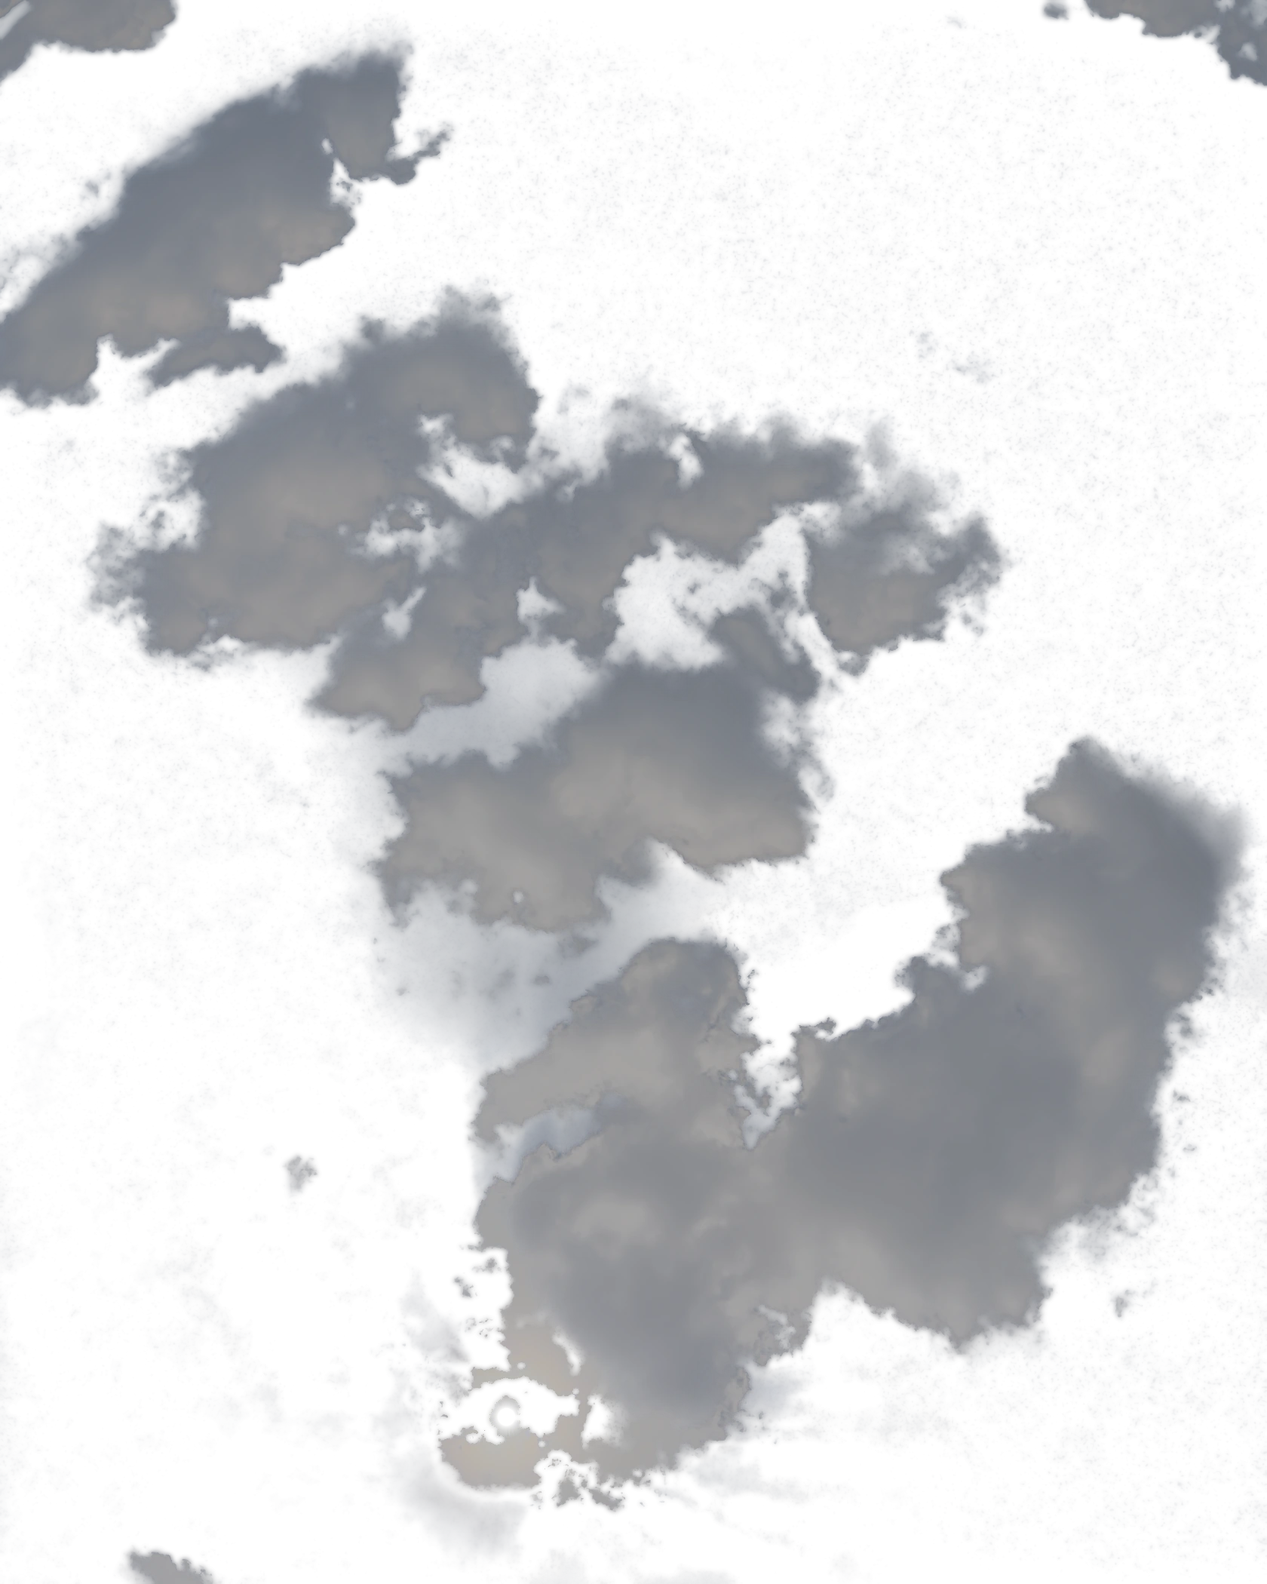
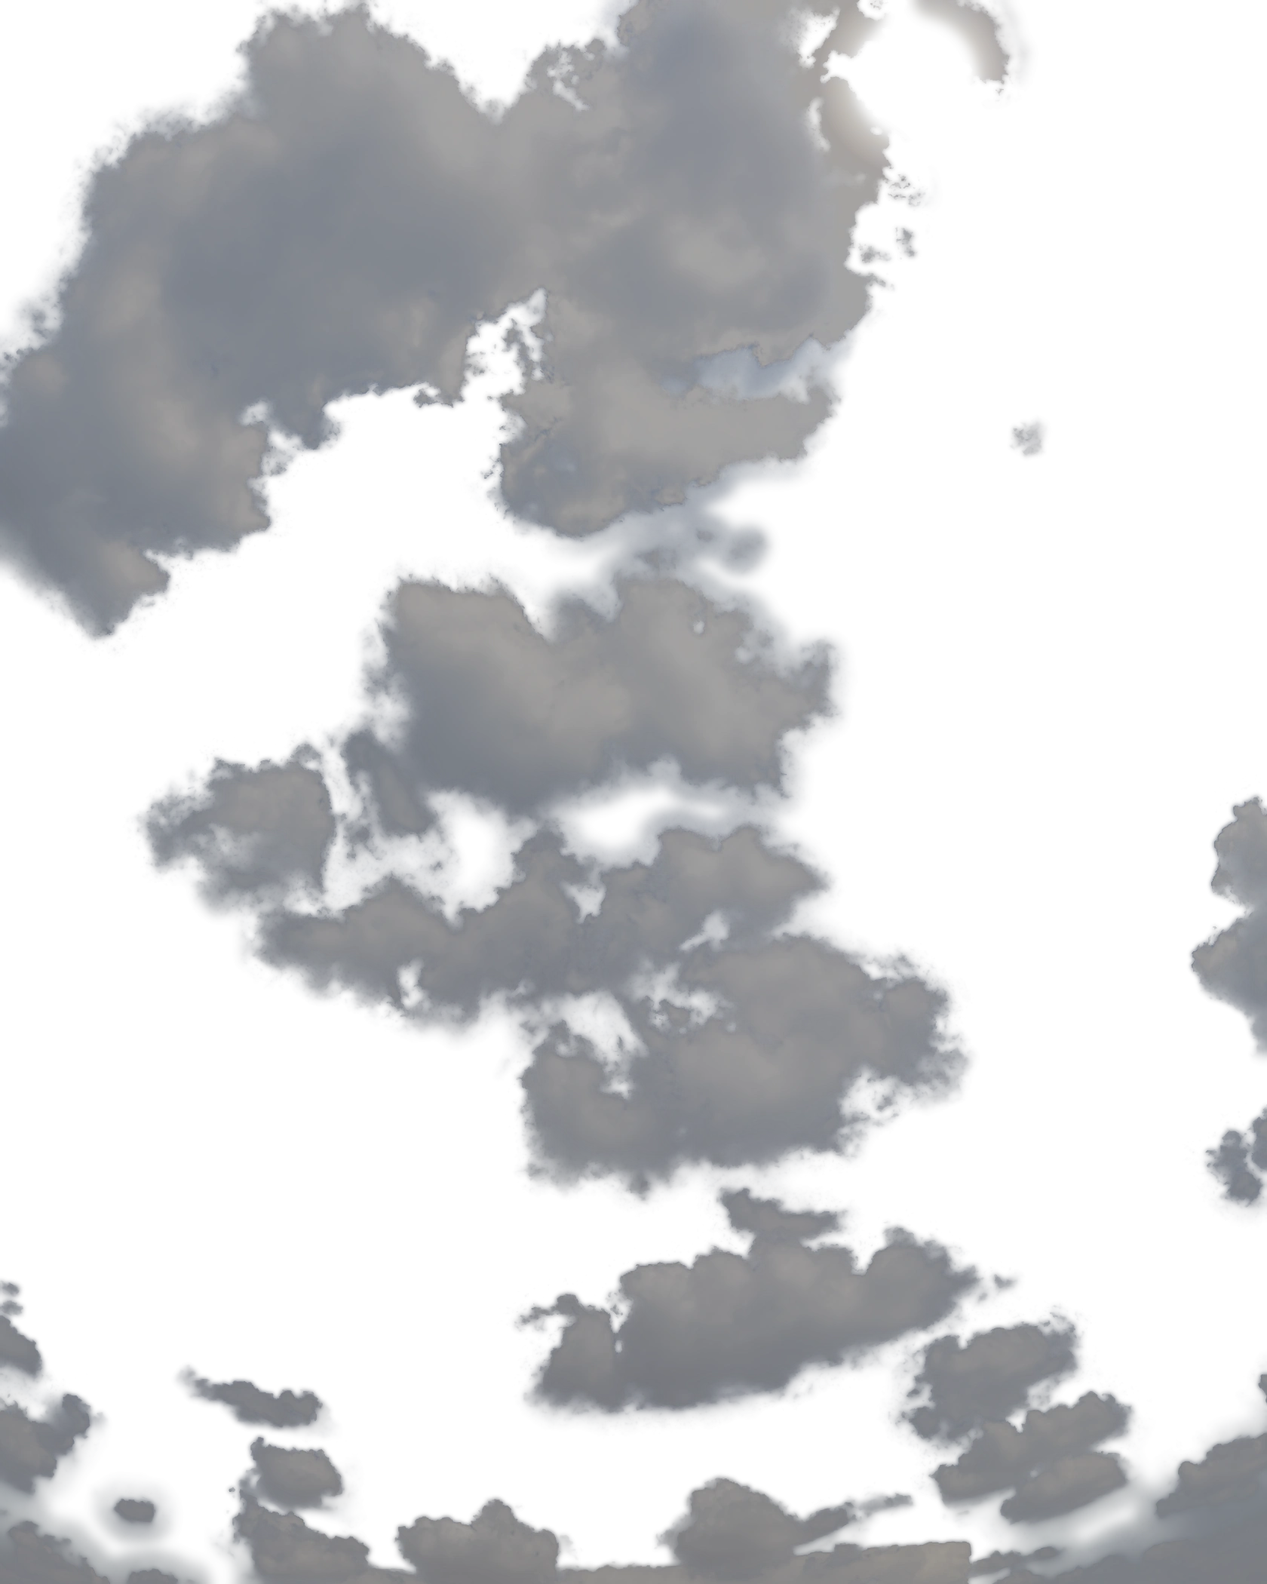
Lab: climb komorebi round 3
Claude-Session: https://claude.ai/code/session_01RqENhngNCzDFmJWDZueXGV

diff --git a/src/app/lab/komorebi/komorebiEngine.js b/src/app/lab/komorebi/komorebiEngine.js
@@ -14,22 +14,27 @@ import { createFilm, FILM_PRESETS } from "../_kit/film";
 // or sky, never a hole.
 //
 // The cumulus come from a second capture, Poly Haven's
-// kloofendal_48d_partly_cloudy_puresky, reprojected to the same upward view
-// and turned so its sun lands on the drawn sun: every cloud keeps its true
-// lighting, sunlit tops towards the sun and skylight-blue undersides, and the
-// edge of the big cumulus beside the sun glows. Offline the clouds were
-// separated from their own pale sky as a soft matte (cover and premultiplied
-// light, consistent, so no edge carries a dark unmixing band), relit to this
-// sun and skylight, and rolled off below the film's clip; here they lie over
-// the deep Roman sky and behind every needle. The sky behind them is a clean
-// smooth field (offline, the piazza's own ghost clouds and lens rings taken
-// out of it).
+// kloofendal_48d_partly_cloudy_puresky, rendered into the same upward view
+// with its horizon kept level (turned only about the vertical), so they are
+// a deck seen from under it: big and open by the zenith, just left of the
+// drawn sun, shrinking, flattening and stacking into rows towards the
+// bottom corners, where the trees converge from the horizon. Offline the
+// clouds were separated from their own pale sky as a soft matte (cover and
+// premultiplied light, consistent, so no edge carries a dark unmixing band)
+// and veils far from any cloud body taken out; here they lie over the deep
+// Roman sky and behind every needle, and are shaded as volumes: the sky
+// behind them is a clean smooth field (offline, the piazza's own ghost
+// clouds and lens rings taken out of it).
 //
 // The grade, here in the shader: the rebuilt sky takes a Superia cobalt,
-// pale cyan-blue at the horizon deepening overhead. The cumulus keep the
-// capture's own light as their drawing, rolled off below the clip: sunlit
-// tops warm-neutral, shade and undersides in the colour of the sky round
-// them, and a forward-scatter gain on the cloud beside the sun.
+// pale cyan-blue at the horizon deepening overhead. Each cumulus is shaded
+// as a volume at its own scale (the perspective of the deck sets how wide
+// its body is measured): a light march towards the sun over its cover
+// lights the edges that face the sun warm-neutral a good way in, the thick
+// core and the base sink to the skylight's blue-grey, the thin fringes let
+// the cobalt through, brightened, never a grey ring; the capture's own
+// light rides on top as the drawing of the lobes, rolled off below the
+// clip, and the cloud beside the sun takes a forward-scatter gain.
 //
 // Wind: every layer is split into a few branches, each a damped spring with
 // its own natural frequency (big near crowns slow and wide, far trees quick
@@ -199,24 +204,40 @@ const SKY_GRADE = {
 // pale sky by the sun under the film's warm bloom) is held to this hue,
 // degrees, so nothing drifts to lavender.
 const SKY_HUE_MAX = 215;
-// Cloud: the capture's own light is the drawing. The matte is soft, from
-// the puresky's own cloud-vs-sky separation (tools/depth/bakes/komorebi/
-// softmatte.py), so the lobes, the wisps and the pale fringe where a cloud
-// thins into the sky are the photograph's. Here it gets a touch of local
-// contrast and skylight fill, a gain by the sun for the light scattered
-// forward, a soft roll-off under the clip, and colour: sunlit tops warm,
-// shade and undersides in the sky's own blue.
+// Cloud: a volume, seen from under the deck. The matte is soft, from the
+// puresky's own cloud-vs-sky separation (tools/depth/bakes/komorebi/
+// deck.py, softmatte.py), so the lobes, the wisps and the fringe where a
+// cloud thins into the sky are the photograph's. Here each cloud is lit by
+// its shape at its own scale (elevationAt): its thickness from its cover
+// blurred at one, three and eight times that scale; its sun side from a
+// light march towards the sun over the cover. Sun side warm-neutral at
+// lit, the rim away from the sun at rim, the thick core and base at core
+// in the skylight's blue-grey; the capture's light at a share (capture)
+// and its fine drawing in full (detail); a gain by the sun for the light
+// scattered forward, a soft roll-off under the clip; thin fringes
+// translucent, the sky through them brightened (fringe).
 const CLOUD_GRADE = {
-  key: [1, 0.89, 0.67], // sunlit tops, per unit red
-  sky: 0.1, // the shade's colour: the sky round it, this far towards white
+  key: [1, 0.8, 0.52], // the sun side, per unit red
+  sky: 0.1, // share of the sky round it (eased to white) in the core's blue-grey
   fill: 0.05, // skylight under every part of a cloud, scene light
-  gain: 1.3, // the capture's own light
+  gain: 1.3, // the capture's own light, where it is kept (capture)
   top: 2.2, // the ceiling: rolls off to it from knee, under the clip
   knee: 1.1,
   detail: 1.2, // local contrast against the cloud's own blur
-  own: 0.6, // share of the capture's own colour kept in a cloud's body
+  own: 0.3, // share of the capture's own colour kept in a cloud's shade
   forward: 0.35, // gain on cloud by the sun, from the light it scatters forward
+  lod: 4.5, // the body's blur overhead (mip level); it follows the cloud's scale
+  lit: 1.8, // the sun side's light, scene
+  core: 0.12, // the thick core and base
+  rim: 0.42, // the thin rim away from the sun
+  march: 0.8, // the light march's step towards the sun, in body blur widths
+  capture: 0.2, // share of the capture's own low-frequency shading kept
+  coreTint: [0.26, 0.42, 0.64], // skylight blue-grey, linear (~rgb 150, 175, 200 printed)
+  fringe: [0.3, 1.5], // thin fringe: the sky this far to white, this much brighter
 };
+// The view the capture was reprojected to: stereographic, 140 degrees over
+// a 2560 master, pitched 64 up; the asset is the crop at x0, y0.
+const VIEW = { x0: 521, y0: 94, n: 2560, pitch: (64 * Math.PI) / 180, f: 1280 / (2 * Math.tan((35 * Math.PI) / 180)) };
 // The lower canopy's shadows sink by c / (c + knee): strength 0 off, 1 full.
 // The cypresses and far pines are rebaked from the HDRI with needle-sharp
 // mattes (tools/depth/bakes/komorebi/lowband.py); pressed this hard they go
@@ -293,8 +314,11 @@ uniform vec3 uSkyPale;       // the pale sky round the sun
 uniform float uVig;          // the film's vignette, taken back out of the sky
 uniform vec3 uCKey;          // sunlit tops
 uniform vec4 uCGrade;        // sky share in the shade, fill, gain, detail
-uniform vec4 uCRoll;         // knee, top, unused, unused
+uniform vec4 uCRoll;         // knee, top, the rim away from the sun, march step (blur widths)
 uniform vec2 uCGlow;         // own colour share, forward scatter
+uniform vec4 uCVol;          // blur lod overhead, lit level, core share, capture's own shading share
+uniform vec3 uCCore;         // thick core and base
+uniform vec2 uCCoreW;        // thin fringe: towards white, light over the sky
 const vec3 LUMA = vec3(0.2126, 0.7152, 0.0722);
 const float ASPECT = ${ASPECT.toFixed(6)};
 
@@ -366,6 +390,20 @@ vec3 withLuma(vec3 tint, float y) {
   return tint * (y / dot(tint, LUMA));
 }
 
+// Elevation of a point of the print above the horizon, and the
+// stereographic magnification there (1 at the centre of the view): the
+// geometry the capture was reprojected with (yaw 36, pitch 64 up, 140
+// degrees over a 2560 master, the asset a crop of it).
+float elevationAt(vec2 uv, out float stretch) {
+  vec2 m = vec2(${VIEW.x0.toFixed(1)}, ${VIEW.y0.toFixed(1)}) + uv * vec2(${AW}.0, ${AH}.0) - 0.5 - ${((VIEW.n - 1) / 2).toFixed(1)};
+  float rr = length(m);
+  float th = 2.0 * atan(rr / ${(2 * VIEW.f).toFixed(4)});
+  vec3 d = vec3(m * (rr > 0.0 ? sin(th) / rr : 0.0), cos(th));
+  float c = cos(0.5 * th);
+  stretch = 1.0 / (c * c);
+  return asin(clamp(${Math.sin(VIEW.pitch).toFixed(6)} * d.z - ${Math.cos(VIEW.pitch).toFixed(6)} * d.y, -1.0, 1.0));
+}
+
 void main() {
   vec2 p = vec2(vUv.x, 1.0 - vUv.y);
   vec2 uv = uCrop.xy + p * uCrop.zw;
@@ -405,40 +443,69 @@ void main() {
   float mu = sqrt(max(1.0 - d * d, 0.0));
   col += uSunL * (uSunR * uSunR) / (r * r) * cover * (0.4 + 0.6 * mu) / 0.8;
 
-  // Cumulus, in front of the sky and behind every needle.
+  // Cumulus, in front of the sky and behind every needle: a level deck seen
+  // from under it, so their scale follows the elevation (big and open
+  // overhead, small and stacked towards the horizon at the bottom corners),
+  // and every measure of a cloud's body below is taken at its own scale.
   vec4 cl = texture(uClouds, uv);
   vec3 cP = exp2(uCLog.x + cl.rgb * (uCLog.y - uCLog.x)) - exp2(uCLog.x);
   if (cl.a > 0.0) {
+    float stretch;
+    float el = elevationAt(uv, stretch);
+    float lod = uCVol.x + log2(clamp(sin(el) * stretch, 0.15, 1.4));
     // The capture's own light, unpremultiplied, with its local contrast
     // lifted a little against the blurred surround so the lobes survive the
-    // shoulder. Thin edges carry little cover: their surround is mostly
-    // sky, so they keep their own drawing.
-    vec4 cb = textureLod(uCloudsBlur, uv, 4.5);
+    // shoulder.
+    vec4 cb = textureLod(uCloudsBlur, uv, lod);
+    vec4 cw = textureLod(uCloudsBlur, uv, lod + 1.5);
     vec3 bP = exp2(uCLog.x + cb.rgb * (uCLog.y - uCLog.x)) - exp2(uCLog.x);
     float Yc = max(dot(cP, LUMA) / max(cl.a, 1e-3), 1e-4);
     float Yb = max(dot(bP, LUMA) / max(cb.a, 1e-3), 1e-4);
     float body = smoothstep(0.35, 0.85, cl.a) * smoothstep(0.25, 0.65, cb.a);
     float near = exp(-sd / 0.22);
-    // Close to the sun the light scattered forward fills the cloud, so its
-    // dark cores are not deepened there.
     float detail = mix(1.0, mix(uCGrade.w, 1.0, near * near), body);
-    float Y = uCGrade.y + uCGrade.z * Yb * pow(Yc / Yb, detail);
-    // Cloud by the sun glows with the light it scatters forward: a gain on
-    // its own light, so its lobes keep their drawing.
+    // Thickness: how deep in a cloud's body a point lies, from its cover
+    // blurred at the cloud's own scale, twice and eight times that.
+    vec4 cx = textureLod(uCloudsBlur, uv, lod + 3.0);
+    float thick = smoothstep(0.45, 0.98, (cb.a + cw.a + cx.a) / 3.0) * smoothstep(0.4, 0.9, cl.a);
+    // The side that faces the sun: how little cloud lies between a point and
+    // the open sky on the way to the sun, marched over the cover at the
+    // cloud's own scale (a light march in the picture plane), so the edges
+    // that face the sun are lit a good way in and the far side is not.
+    vec2 toSun = normalize((uSun - uv) * vec2(${AW}.0, ${AH}.0) + 1e-4);
+    vec2 stepUv = toSun * exp2(lod) * uCRoll.w / vec2(${AW}.0, ${AH}.0);
+    float od = 0.0;
+    for (int i = 1; i <= 6; i++) od += textureLod(uCloudsBlur, uv + stepUv * float(i), lod - 1.0).a;
+    float sunSide = exp(-0.45 * od) * smoothstep(0.1, 0.5, cl.a);
+    // Light: the sun side up at the ceiling, the thick core and the base in
+    // shade well under it, the rim away from the sun between; the capture's
+    // own light rides on it, its shading (the darker bases of the far rows)
+    // at a share, its fine drawing (the lobes) in full.
+    float Ym = mix(mix(uCVol.z, uCRoll.z, 1.0 - thick), uCVol.y, sunSide);
+    float Y = uCGrade.y + pow(Ym, 1.0 - uCVol.w) * pow(uCGrade.z * Yb, uCVol.w) * pow(Yc / Yb, detail);
+    // Cloud by the sun glows with the light it scatters forward.
     float fwd = exp(-sd / 0.15) * (1.0 - 0.35 * smoothstep(0.4, 1.0, cl.a));
     Y *= 1.0 + uCGlow.y * fwd;
-    // The sunlit tops roll off softly to a ceiling under the clip.
+    // The sunlit edges roll off softly to a ceiling under the clip.
     if (Y > uCRoll.x) Y = uCRoll.x + (uCRoll.y - uCRoll.x) * (1.0 - exp(-(Y - uCRoll.x) / (uCRoll.y - uCRoll.x)));
-    // Colour follows the light: the shade takes the sky round it, the sun
-    // side the warm key, through a clean white between them; the bodies
-    // keep much of the capture's own (offline relit) colour, the thin
-    // edges fade into the sky through its pale skylight blue.
-    float lit = max(smoothstep(0.5, 1.9, Y), smoothstep(0.0, 0.9, 0.5 * uCGlow.y * fwd));
-    vec3 shade = mix(skyTint, vec3(1.0), uCGrade.x);
-    vec3 tint = mix(shade, uCKey, lit);
+    // Colour: the sun side warm-neutral, the thick core and the base the
+    // skylight's blue-grey (the sky round it, well towards white), the
+    // capture's own colour at a share.
+    float shade = clamp(mix(thick, 0.45, 1.0 - thick) * (1.0 - sunSide), 0.0, 1.0);
+    shade *= 1.0 - smoothstep(0.0, 0.9, 0.25 * uCGlow.y * fwd);
+    vec3 core = mix(normalize(uCCore), mix(skyTint, vec3(1.0), 0.5), uCGrade.x);
+    vec3 tint = mix(uCKey, core / dot(core, LUMA), shade);
     vec3 own = cP / max(dot(cP, LUMA), 1e-5);
-    tint = mix(tint, own, uCGlow.x * smoothstep(0.3, 0.9, cl.a));
-    cP = withLuma(tint, Y) * cl.a;
+    tint = mix(tint, own, uCGlow.x * smoothstep(0.3, 0.9, cl.a) * (1.0 - sunSide));
+    vec3 C = withLuma(tint, Y);
+    // Thin fringes are translucent: the sky shows through them, brightened
+    // by the light they scatter, so a cloud thins into the cobalt through
+    // a pale blue, never a grey ring.
+    float skyY = dot(col, LUMA);
+    vec3 thin = withLuma(mix(skyTint, vec3(1.0), uCCoreW.x), max(skyY * uCCoreW.y, 1e-4));
+    float fr = 1.0 - smoothstep(0.15, 0.8, cl.a) * smoothstep(0.1, 0.6, cb.a);
+    C = mix(C, max(C, thin), fr);
+    cP = C * cl.a;
   }
   col = col * (1.0 - cl.a) + cP * smoothstep(0.0, 2.0 / 255.0, cl.a);
 
@@ -1152,8 +1219,11 @@ export async function createKomorebi(host, { embedded = false } = {}) {
     gl.uniform1f(u.uVig, FILM.vignette);
     gl.uniform3fv(u.uCKey, CLOUD_GRADE.key);
     gl.uniform4f(u.uCGrade, CLOUD_GRADE.sky, CLOUD_GRADE.fill, CLOUD_GRADE.gain, CLOUD_GRADE.detail);
-    gl.uniform4f(u.uCRoll, CLOUD_GRADE.knee, CLOUD_GRADE.top, 0, 0);
+    gl.uniform4f(u.uCRoll, CLOUD_GRADE.knee, CLOUD_GRADE.top, CLOUD_GRADE.rim, CLOUD_GRADE.march);
     gl.uniform2f(u.uCGlow, CLOUD_GRADE.own, CLOUD_GRADE.forward);
+    gl.uniform4f(u.uCVol, CLOUD_GRADE.lod, CLOUD_GRADE.lit, CLOUD_GRADE.core, CLOUD_GRADE.capture);
+    gl.uniform3fv(u.uCCore, CLOUD_GRADE.coreTint);
+    gl.uniform2f(u.uCCoreW, CLOUD_GRADE.fringe[0], CLOUD_GRADE.fringe[1]);
     gl.uniform2f(u.uCLog, CLOUD_LOG[0], CLOUD_LOG[1]);
     gl.uniform4fv(u.uCrop, L.crop);
     gl.uniform2f(u.uRes, L.pw, L.ph);

diff --git a/tools/depth/bakes/komorebi/deck.py b/tools/depth/bakes/komorebi/deck.py
@@ -1,0 +1,70 @@
+# The cumulus as a deck over the piazza: kloofendal_48d's puresky rendered
+# into the komorebi crop with its own horizon kept level, turned only about
+# the vertical (yaw), so the clouds keep the perspective they were shot with.
+#
+# rep.py tilted the puresky 24 degrees to put its sun (altitude 48) on the
+# drawn sun (altitude 83): its horizon then ran through the middle of the
+# frame and every cloud came out at one scale, a field of matted blobs with
+# no worm's-eye read. Kept level, the deck foreshortens as it should in this
+# stereographic view: by the zenith (asset ~0.45, 0.36, just left of the
+# drawn sun) the cumulus are big and open, and toward the bottom corners,
+# where the trees converge from the horizon (altitude 0-11 degrees there),
+# they shrink, flatten and stack into rows. The yaw (150) puts a big
+# cumulus over the zenith side of the crown and the drawn sun on clear sky;
+# the puresky's own sun lands at the top edge (asset ~0.72, 0.05), behind
+# the overhead limb, and softmatte.py takes it out.
+#
+#     python3 -I deck.py '{"hdr":"kloofendal_48d_partly_cloudy_puresky_8k.hdr","out":"rep_deck.npy"}'
+#     python3 -I softmatte.py deck '{"src":"rep_deck.npy","sun":[0.7214,0.0495],...}'
+#
+# Geometry as geo.py (yaw 36, pitch 64 up, stereographic 140 degrees over a
+# 2560 master, crop 1680x2100 at 521,94), here self-contained.
+import sys, json, numpy as np, cv2
+
+P = dict(hdr="", out="rep_deck.npy", yaw=150.0, ss=1.5)
+if len(sys.argv) > 1: P.update(json.loads(sys.argv[1]))
+Y, PITCH, F, N = 36, 64, 140, 2560
+X0, Y0, CW, CH = 521, 94, 1680, 2100
+
+
+def Rx(a):
+    a = np.radians(a); c, s = np.cos(a), np.sin(a)
+    return np.array([[1, 0, 0], [0, c, -s], [0, s, c]])
+
+
+def Ry(a):
+    a = np.radians(a); c, s = np.cos(a), np.sin(a)
+    return np.array([[c, 0, s], [0, 1, 0], [-s, 0, c]])
+
+
+def target_dirs(scale):
+    """World directions (x east-ish, y down, z north-ish) of the crop's pixel
+    centres at a supersampling scale."""
+    w, h = int(round(CW * scale)), int(round(CH * scale))
+    xs = (np.arange(w) + 0.5) / scale - 0.5 + X0 - (N - 1) / 2
+    ys = (np.arange(h) + 0.5) / scale - 0.5 + Y0 - (N - 1) / 2
+    x, y = np.meshgrid(xs, ys)
+    f = (N / 2) / (2 * np.tan(np.radians(F) / 4))
+    r = np.hypot(x, y); th = 2 * np.arctan(r / (2 * f))
+    s = np.where(r > 0, np.sin(th) / np.maximum(r, 1e-9), 0)
+    d = np.stack([x * s, y * s, np.cos(th)], -1)
+    return (d @ (Ry(Y) @ Rx(PITCH)).T).astype(np.float32)
+
+
+src = cv2.imread(P["hdr"], cv2.IMREAD_UNCHANGED) if P["hdr"].endswith(".hdr") else np.load(P["hdr"], mmap_mode="r")
+src = np.asarray(src[:2300]).astype(np.float32)  # the upper hemisphere and a little under
+if P["hdr"].endswith(".hdr"): src = src[..., ::-1].copy()  # BGR -> RGB
+H, W = 4096, 8192
+d = target_dirs(P["ss"])
+lon = np.degrees(np.arctan2(d[..., 0], d[..., 2])) - P["yaw"]
+lat = np.degrees(np.arcsin(np.clip(-d[..., 1], -1, 1)))
+del d
+u = (((lon / 360 + 0.5) % 1) * W - 0.5).astype(np.float32)
+v = ((0.5 - lat / 180) * H - 0.5).astype(np.float32)
+print("lat range", lat.min(), lat.max())
+out = cv2.remap(src, u, v, cv2.INTER_CUBIC, borderMode=cv2.BORDER_WRAP)
+out = np.maximum(cv2.resize(out, (CW, CH), interpolation=cv2.INTER_AREA), 0)
+np.save(P["out"], out.astype(np.float32))
+L = out @ np.array([.2126, .7152, .0722], np.float32)
+yy, xx = np.unravel_index(np.argmax(L), L.shape)
+print("brightest at", xx / CW, yy / CH, L.max())

diff --git a/tools/depth/bakes/komorebi/softmatte.py b/tools/depth/bakes/komorebi/softmatte.py
@@ -29,20 +29,22 @@
 #    in the engine holds.
 #
 #     python3 -I rep.py 15
+#     (deck.py, the level deck: python3 -I softmatte.py deck '{"src":"rep_deck.npy","sun":[0.7226,0.0495],...}')
 #     python3 -I softmatte.py 15 '{"out":".../public/lab/komorebi/clouds.webp","ref":"clouds.orig.webp","sky":".../sky.bin"}'
 import sys, numpy as np, cv2, json
 
-roll = int(sys.argv[1])
+roll = sys.argv[1]
 P = dict(gamma=2.2, sigma=2.6, edge=0.35, sunClear=28, knee=0.9, ceil=1.5, ceilSun=2.5, sunR=100,
-         sunT=1.0, skyT=0.35, k=None, expo=0.0, LO=-9.0, HI=6.0, q=95, out="", ref="", sky="", dbg="")
+         sunT=1.0, skyT=0.35, k=None, expo=0.0, LO=-9.0, HI=6.0, q=95, out="", ref="", sky="", dbg="",
+         src="", sun=[0.3994, 0.89429])
 if len(sys.argv) > 2: P.update(json.loads(sys.argv[2]))
 LUM = np.array([.2126, .7152, .0722], np.float32)
 def ell(n): return cv2.getStructuringElement(cv2.MORPH_ELLIPSE, (n, n))
 
-x = np.load("rep_%d.npy" % roll).astype(np.float32)
+x = np.load(P["src"] or "rep_%s.npy" % roll).astype(np.float32)
 H, W = x.shape[:2]
 yy, xx = np.mgrid[:H, :W].astype(np.float32)
-sx, sy = 0.3994 * W, 0.89429 * H
+sx, sy = P["sun"][0] * W, P["sun"][1] * H  # the source's own sun, asset uv
 r = np.hypot(xx - sx, yy - sy)
 
 # the source sun disc goes (the engine draws its own)
@@ -130,6 +132,15 @@ Ce = ch_b * Yu[..., None]
 Cu = Ce * (1 - t) + Cu * t
 Pm = Cu * a2[..., None]
 Pm[a2 <= 0] = 0
+
+# veils: thin cover far from any cloud body (sun rays, haze over open sky)
+# goes, so open sky is clear; a wisp attached to a cloud keeps its fringe
+if P.get("veil", 0) > 0:
+    vr = int(P["veil"])
+    prox = cv2.dilate((a2 > 0.7).astype(np.uint8), ell(2 * vr + 1)).astype(np.float32)
+    prox = np.clip(cv2.GaussianBlur(prox, (0, 0), vr / 3), 0, 1)
+    a2 = a2 * prox; Pm = Pm * prox[..., None]
+    a2[a2 < 1 / 255] = 0; Pm[a2 <= 0] = 0
 
 # target sky (the engine's rebuilt field) for the skylight tint
 St = None

diff --git a/tools/depth/bakes/komorebi/README.md b/tools/depth/bakes/komorebi/README.md
@@ -1,5 +1,31 @@
 # komorebi cumulus
 
+## the deck, level (current)
+
+`deck.py` renders the puresky into the komorebi crop with its horizon kept
+level, turned only about the vertical (yaw 150), instead of `rep.py`'s tilt.
+That tilt (24 degrees, to put the puresky's sun at altitude 48 on the drawn
+sun at altitude 83) ran the puresky's horizon through the middle of the
+frame, so every cumulus came out at one scale: matted blobs with no
+worm's-eye read. Level, the deck foreshortens as it does from under it: big
+open cumulus by the zenith (asset ~0.45, 0.36), shrinking, flattening and
+stacking into rows towards the bottom corners (altitude 0-11 there). The
+puresky's sun lands at the top edge (asset 0.7226, 0.0495), behind the
+overhead limb; `softmatte.py` takes it out (`sun`, `sunClear`), and `veil`
+drops thin cover more than ~24 px from any cloud body (the puresky's sun
+rays), so open sky is clear.
+
+    python3 -I deck.py '{"hdr":"kloofendal_48d_partly_cloudy_puresky_8k.hdr","out":"rep_deck.npy"}'
+    python3 -I softmatte.py deck '{"src":"rep_deck.npy","sun":[0.7226,0.0495],"ref":"clouds.orig.webp","sky":".../public/lab/komorebi/sky.bin","ceilSun":0,"sunClear":130,"veil":24,"out":".../public/lab/komorebi/clouds.webp"}'
+
+The capture's lighting is kept only as the drawing of the lobes: the engine
+shades each cloud as a volume at its own scale (its elevation and the
+stereographic magnification set the blur that measures its body), a light
+march towards the drawn sun over the cover lighting the sun-facing edges,
+cores and bases going to the skylight's blue-grey, fringes translucent.
+
+## the first bake (tilted, superseded)
+
 The cloud layer (`public/lab/komorebi/clouds.webp`) comes from Poly Haven's
 CC0 `kloofendal_48d_partly_cloudy_puresky` (8K), reprojected into the
 komorebi crop: the same stereographic view (yaw 36, pitch 64 up, 140 degrees,
